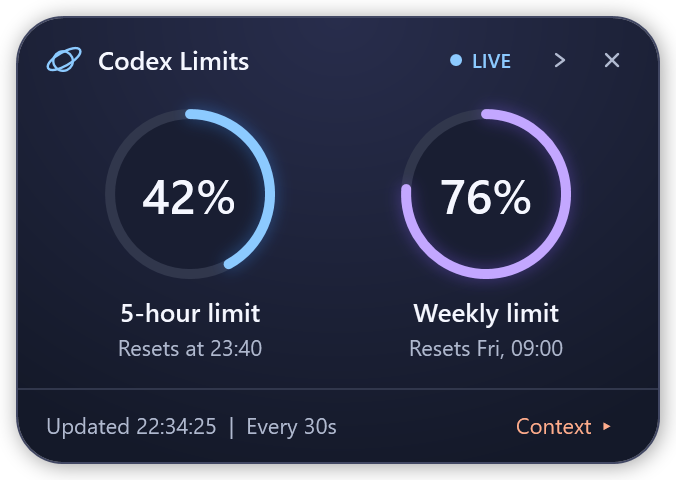
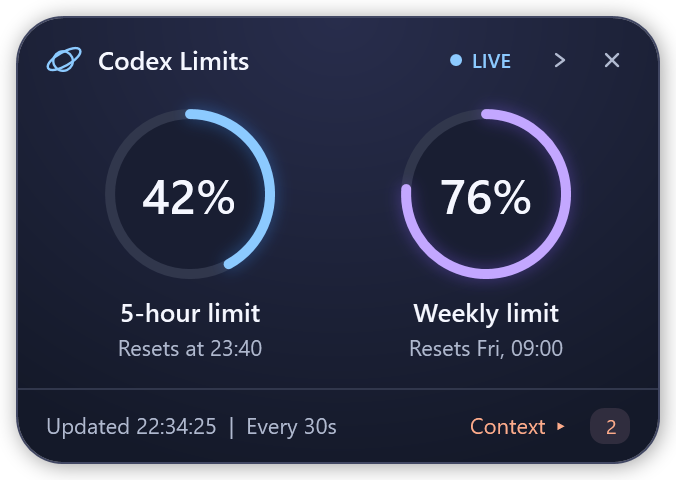
Browse all low-context chats from the Orbit widget

Changed region(s): [[0.6834, 0.8438, 0.932, 0.9375]]

diff --git a/README.md b/README.md
@@ -8,6 +8,10 @@ Orbit is an always-on-top Windows widget for Codex. See how much of your 5-hour 
   <a href="codex-limits-orbit-v2-edge-tab.png"><img src="codex-limits-orbit-v2-edge-tab.png" width="60" alt="Right edge tab with two mini usage rings"></a>
 </p>
 
+<p align="center">
+  <a href="codex-limits-orbit-v2-low-context.png"><img src="codex-limits-orbit-v2-low-context.png" width="293" alt="All low-context chats, including older chats outside the three most recent"></a>
+</p>
+
 *Previews use sample data.*
 
 ## Getting started
@@ -19,7 +23,7 @@ Orbit is an always-on-top Windows widget for Codex. See how much of your 5-hour 
 ## Using Orbit
 
 - **Usage.** The two rings show usage and reset times. A ring turns amber at 90% used.
-- **Context.** Open the panel to see the three most recently active local Codex chats across projects. A percentage turns peach below 20% remaining. When the panel is closed, the **Context** button picks up the same color if any of the three chats crosses that threshold. Personal ChatGPT conversations are outside this local history.
+- **Context.** Open the panel to see the three most recently active local Codex chats across projects. A percentage turns peach below 20% remaining. When the panel is closed, the **Context** button picks up the same color if any of the three chats crosses that threshold. Click the peach count beside **Context** to see all chats below 20%, including older chats outside the recent three. The list is sorted by context remaining, with the lowest first. Click **‹ Recent** to return. Personal ChatGPT conversations are outside this local history.
 - **Edge tab.** Click **›** next to **×** to tuck the widget into the right edge of the current monitor. The upper mini ring shows the 5-hour limit and the lower ring shows the weekly limit. A peach number counts all unarchived local Codex chats with a known context reading below 20% remaining, including chats outside the three shown in the panel. Drag the tab vertically to reposition it; click it to restore the widget at that height.
 - **Refresh.** Orbit checks about every 30 seconds. **LIVE** means the latest limits check succeeded; **Checked** shows the time of the last successful chat check. Opening **Context** requests a fresh check.
 
